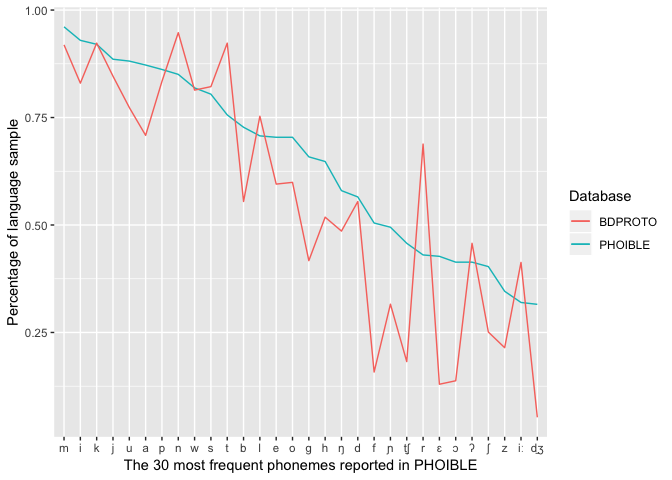
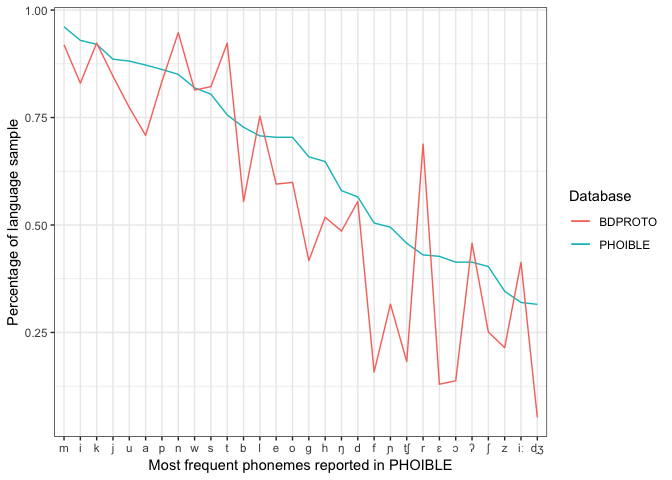
updates desc stats

diff --git a/src/descriptive_stats.md b/src/descriptive_stats.md
@@ -363,8 +363,9 @@ ggplot(data = top.z, aes(x = Phoneme, group=1)) +
   geom_line(aes(y = Phoible.percentage, color = "PHOIBLE")) + 
   geom_line(aes(y = Bdproto.percentage, color = "BDPROTO")) +
   ylab("Percentage of language sample") +
-  xlab("The 30 most frequent phonemes reported in PHOIBLE") +
-  labs(color="Database")
+  xlab("Most frequent phonemes reported in PHOIBLE") +
+  labs(color="Database") +
+  theme_bw()
 ```
 
 ![](descriptive_stats_files/figure-markdown_github/unnamed-chunk-28-1.png)
@@ -396,8 +397,9 @@ ggplot(data = top.z, aes(x = Phoneme, group=1)) +
   geom_line(aes(y = Phoible.percentage, color = "PHOIBLE")) + 
   geom_line(aes(y = Bdproto.percentage, color = "BDPROTO")) +
   ylab("Percentage of language sample") +
-  xlab("The 50 most frequent phonemes reported in PHOIBLE") +
-  labs(color="Database")
+  xlab("Most frequent phonemes reported in PHOIBLE") +
+  labs(color="Database") +
+  theme_bw()
 ```
 
 ![](descriptive_stats_files/figure-markdown_github/unnamed-chunk-29-1.png)
